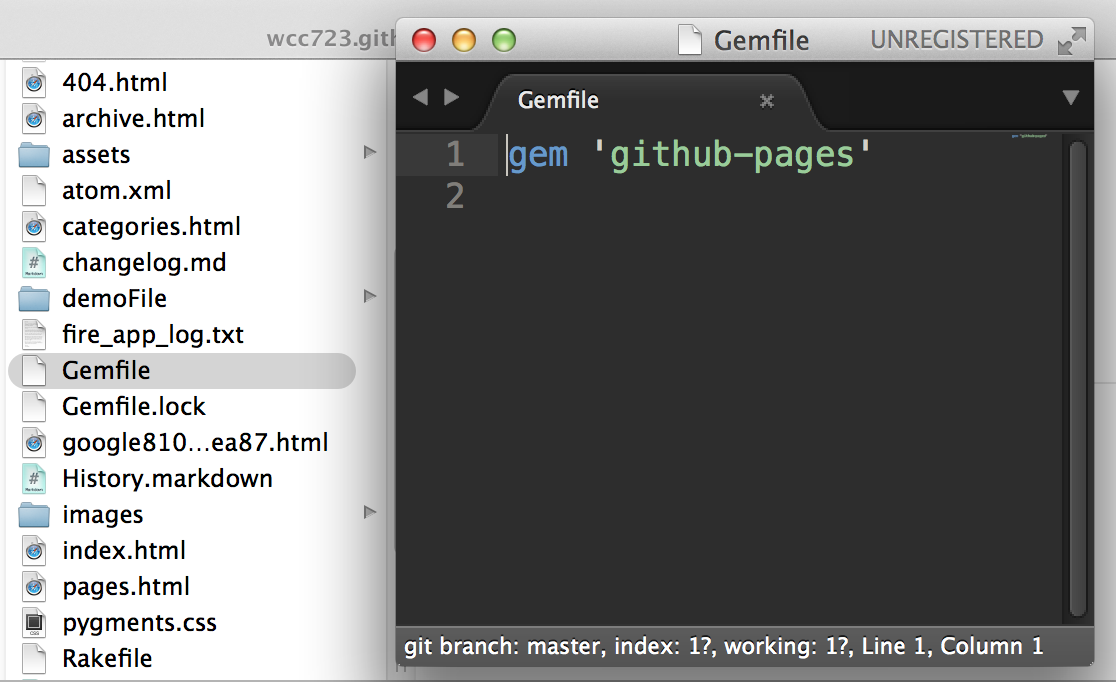
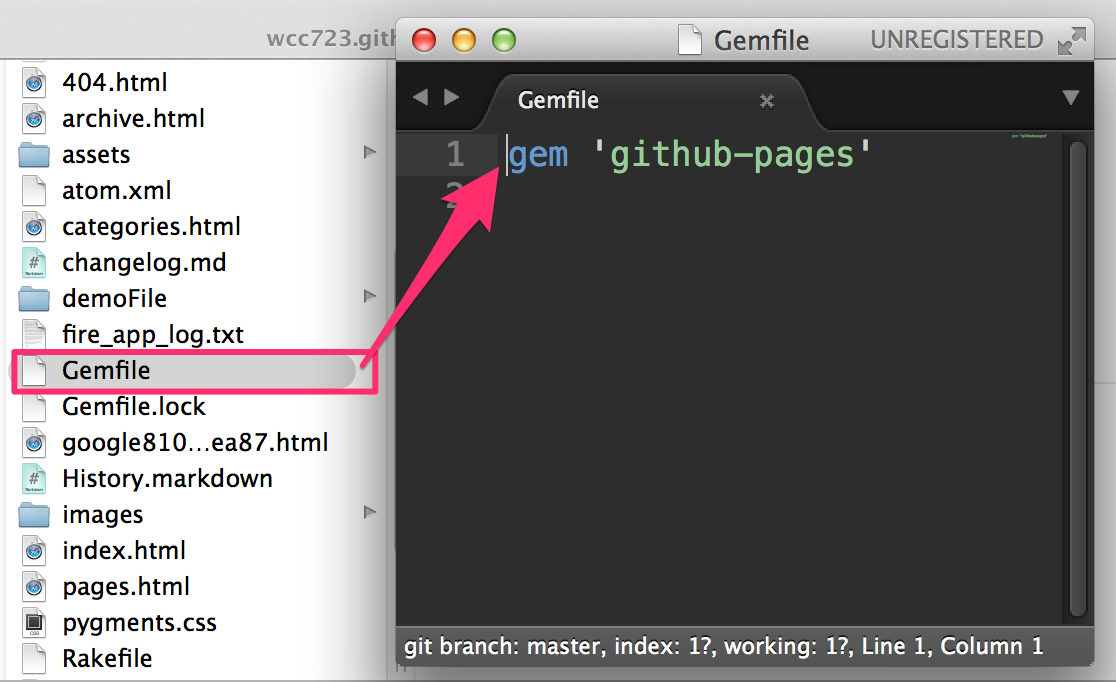
圖沒對好...

Changed region(s): [[0.0, 0.2463, 0.457, 0.585]]

diff --git a/_posts/casper/2014-09-05-github-page.md b/_posts/casper/2014-09-05-github-page.md
@@ -28,7 +28,7 @@ published: true
 
 安裝完後輸入`github-pages versions`，可以看到目前所有相關gem的版本。
 
-![](/images/jekyll/jekyll-20140905-01.png)
+![](/images/jekyll/jekyll-20140905-02.png)
 
 ## Bundle
 
@@ -36,12 +36,12 @@ published: true
 
 	gem 'github-pages'
 
-![](/images/jekyll/jekyll-20140905-02.png)
+![](/images/jekyll/jekyll-20140905-03.png)
 
 接下來在Terminal輸入`bundle install`，這樣專案與Github pages的gem就會綁在一起
 `。
 
-![](/images/jekyll/jekyll-20140905-03.png)
+![](/images/jekyll/jekyll-20140905-05.png)
 
 ## 執行jekyll
 
